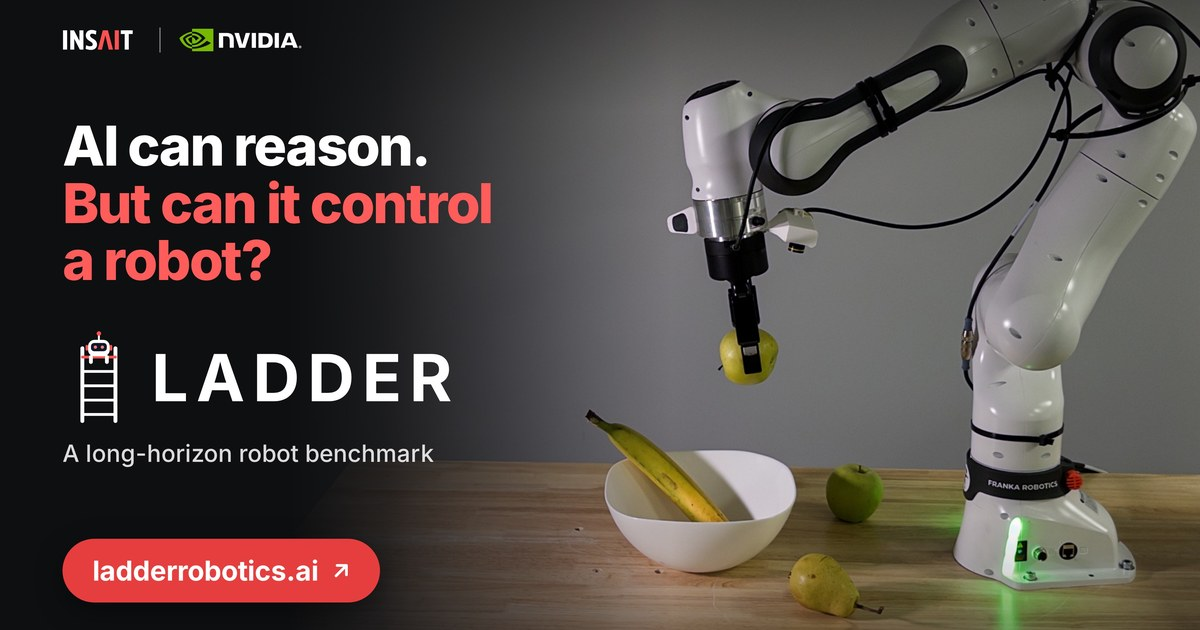
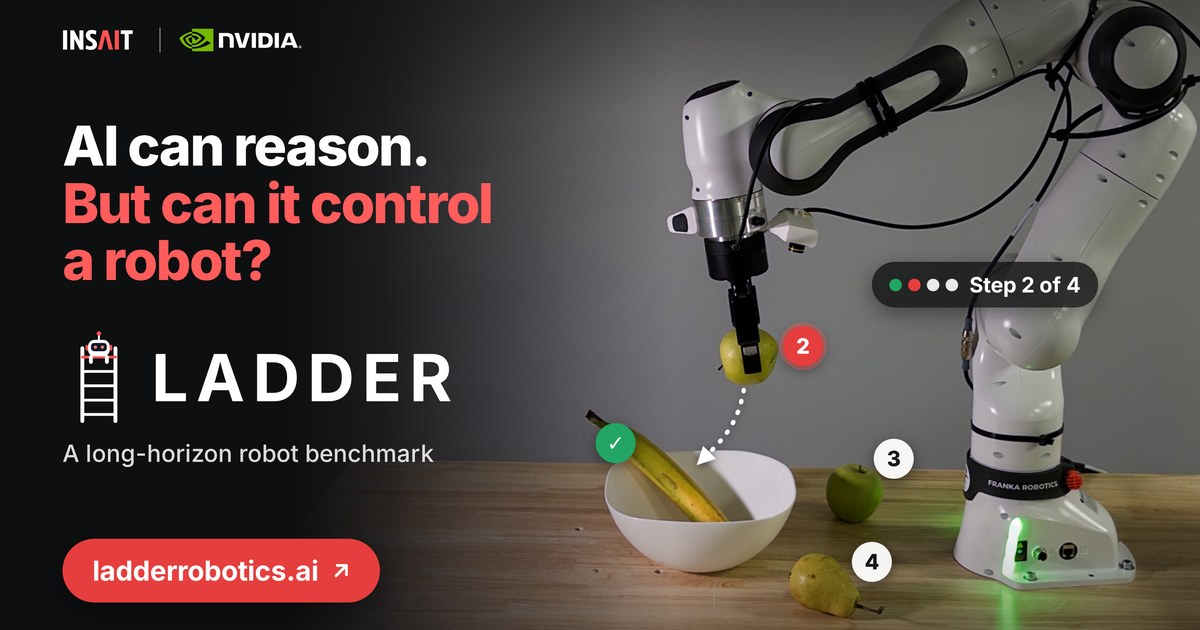
Site: link preview shows the current thumbnail (#24)
The image shown when ladderrobotics.ai is shared was still the old thumbnail. It is now the current one, with the numbered steps. The image URL carries a version so link previews pick it up.

diff --git a/docs/index.html b/docs/index.html
@@ -15,14 +15,14 @@
   <meta property="og:title" content="LADDER: A Long-Horizon Robot Manipulation Benchmark">
   <meta property="og:description" content="145 long-horizon manipulation tasks across three simulators, from 1 to 10 subgoals per instruction. We evaluate ten systems, from end-to-end policies to VLM orchestrators and tool selection agents, and confirm the ranking on two real robots.">
   <meta property="og:url" content="https://ladderrobotics.ai/">
-  <meta property="og:image" content="https://ladderrobotics.ai/static/images/social.jpg">
+  <meta property="og:image" content="https://ladderrobotics.ai/static/images/social.jpg?v=026ac8a628">
   <meta property="og:image:width" content="1200">
   <meta property="og:image:height" content="630">
   <meta property="og:image:alt" content="LADDER: how well can today&#x27;s best AI models control a robot? Leaderboard of AI models on 145 robot tasks">
   <meta name="twitter:card" content="summary_large_image">
   <meta name="twitter:title" content="LADDER: A Long-Horizon Robot Manipulation Benchmark">
   <meta name="twitter:description" content="145 long-horizon manipulation tasks across three simulators, from 1 to 10 subgoals per instruction. We evaluate ten systems, from end-to-end policies to VLM orchestrators and tool selection agents, and confirm the ranking on two real robots.">
-  <meta name="twitter:image" content="https://ladderrobotics.ai/static/images/social.jpg">
+  <meta name="twitter:image" content="https://ladderrobotics.ai/static/images/social.jpg?v=026ac8a628">
   <meta name="twitter:image:alt" content="LADDER: how well can today&#x27;s best AI models control a robot? Leaderboard of AI models on 145 robot tasks">
   <script type="application/ld+json">
 {
@@ -32,7 +32,7 @@
   "alternateName": "LADDER",
   "description": "145 long-horizon manipulation tasks across three simulators, from 1 to 10 subgoals per instruction. We evaluate ten systems, from end-to-end policies to VLM orchestrators and tool selection agents, and confirm the ranking on two real robots.",
   "url": "https://ladderrobotics.ai/",
-  "image": "https://ladderrobotics.ai/static/images/social.jpg",
+  "image": "https://ladderrobotics.ai/static/images/social.jpg?v=026ac8a628",
   "keywords": [
     "robot manipulation",
     "long-horizon tasks",

diff --git a/docs/research.html b/docs/research.html
@@ -15,14 +15,14 @@
   <meta property="og:title" content="LADDER: A Long-Horizon Robot Manipulation Benchmark | Research">
   <meta property="og:description" content="How the ten robot systems on LADDER work, shown on one task, with full results per simulator, task length and category, costs, failure causes, real-robot tests and videos.">
   <meta property="og:url" content="https://ladderrobotics.ai/research">
-  <meta property="og:image" content="https://ladderrobotics.ai/static/images/social.jpg">
+  <meta property="og:image" content="https://ladderrobotics.ai/static/images/social.jpg?v=026ac8a628">
   <meta property="og:image:width" content="1200">
   <meta property="og:image:height" content="630">
   <meta property="og:image:alt" content="LADDER: how well can today&#x27;s best AI models control a robot? Leaderboard of AI models on 145 robot tasks">
   <meta name="twitter:card" content="summary_large_image">
   <meta name="twitter:title" content="LADDER: A Long-Horizon Robot Manipulation Benchmark | Research">
   <meta name="twitter:description" content="How the ten robot systems on LADDER work, shown on one task, with full results per simulator, task length and category, costs, failure causes, real-robot tests and videos.">
-  <meta name="twitter:image" content="https://ladderrobotics.ai/static/images/social.jpg">
+  <meta name="twitter:image" content="https://ladderrobotics.ai/static/images/social.jpg?v=026ac8a628">
   <meta name="twitter:image:alt" content="LADDER: how well can today&#x27;s best AI models control a robot? Leaderboard of AI models on 145 robot tasks">
   <link rel="preload" href="static/fonts/inter-latin-400-normal.woff2" as="font" type="font/woff2" crossorigin>
   <link rel="preload" href="static/fonts/inter-latin-500-normal.woff2" as="font" type="font/woff2" crossorigin>
